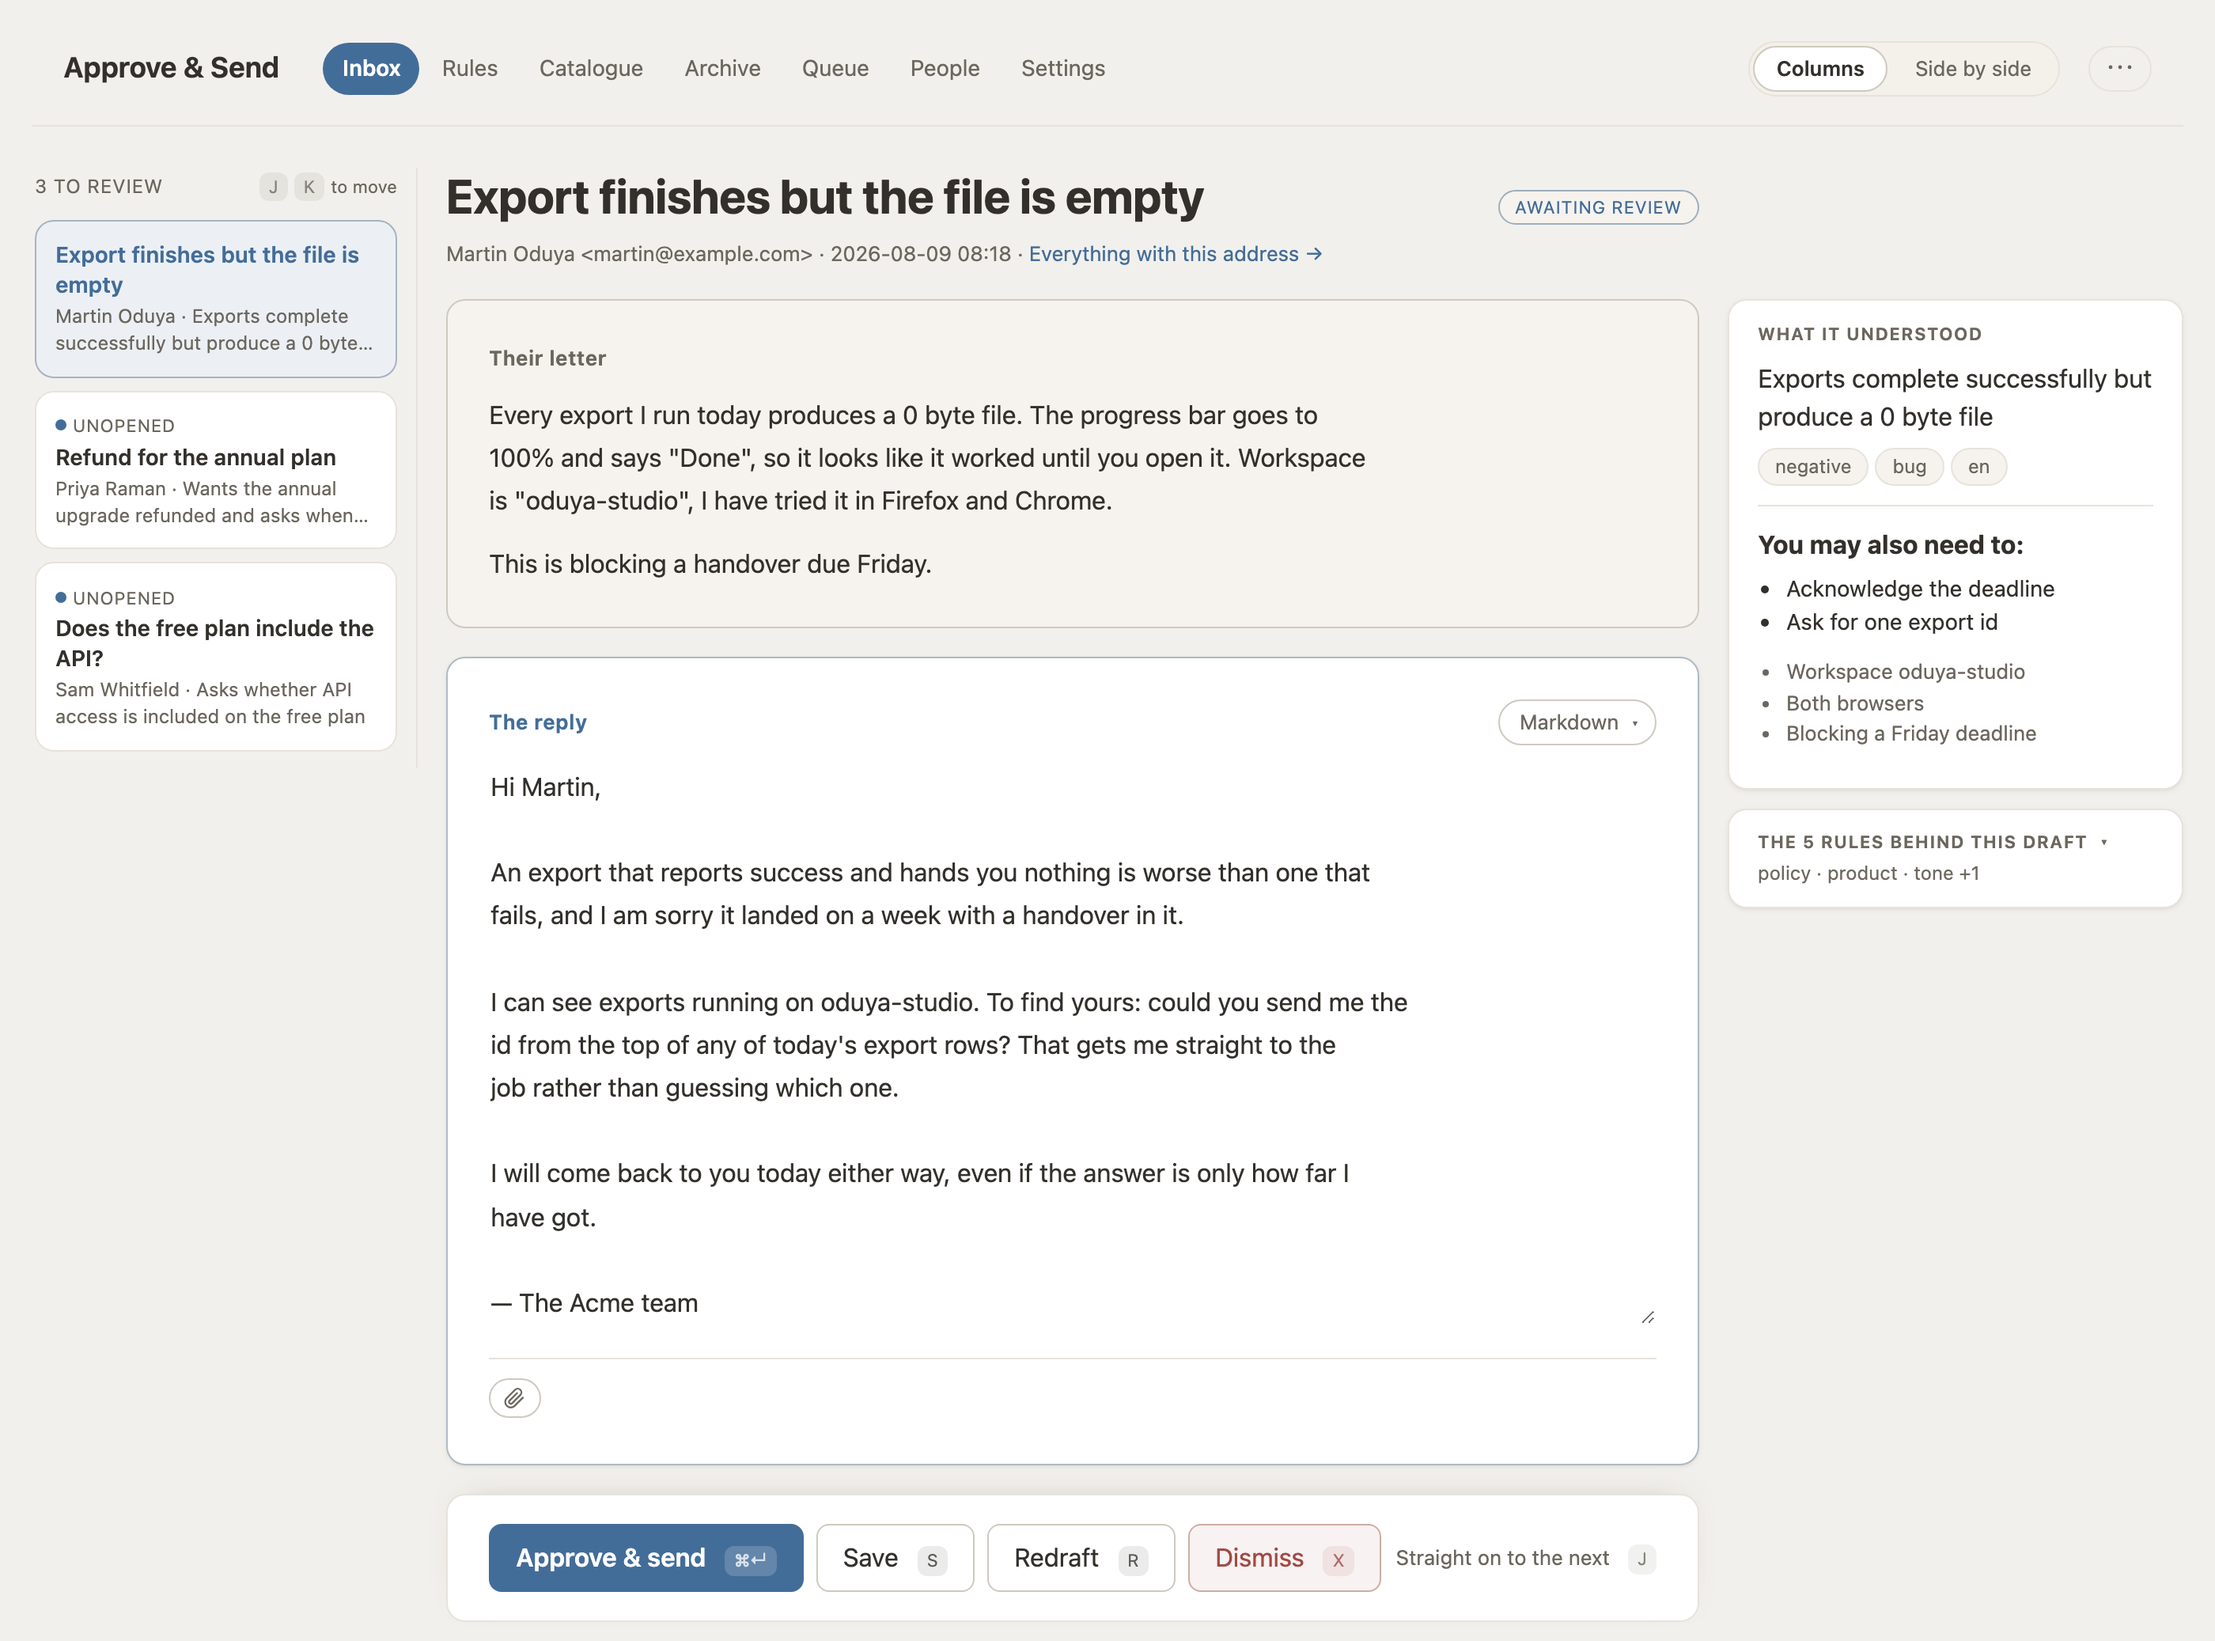
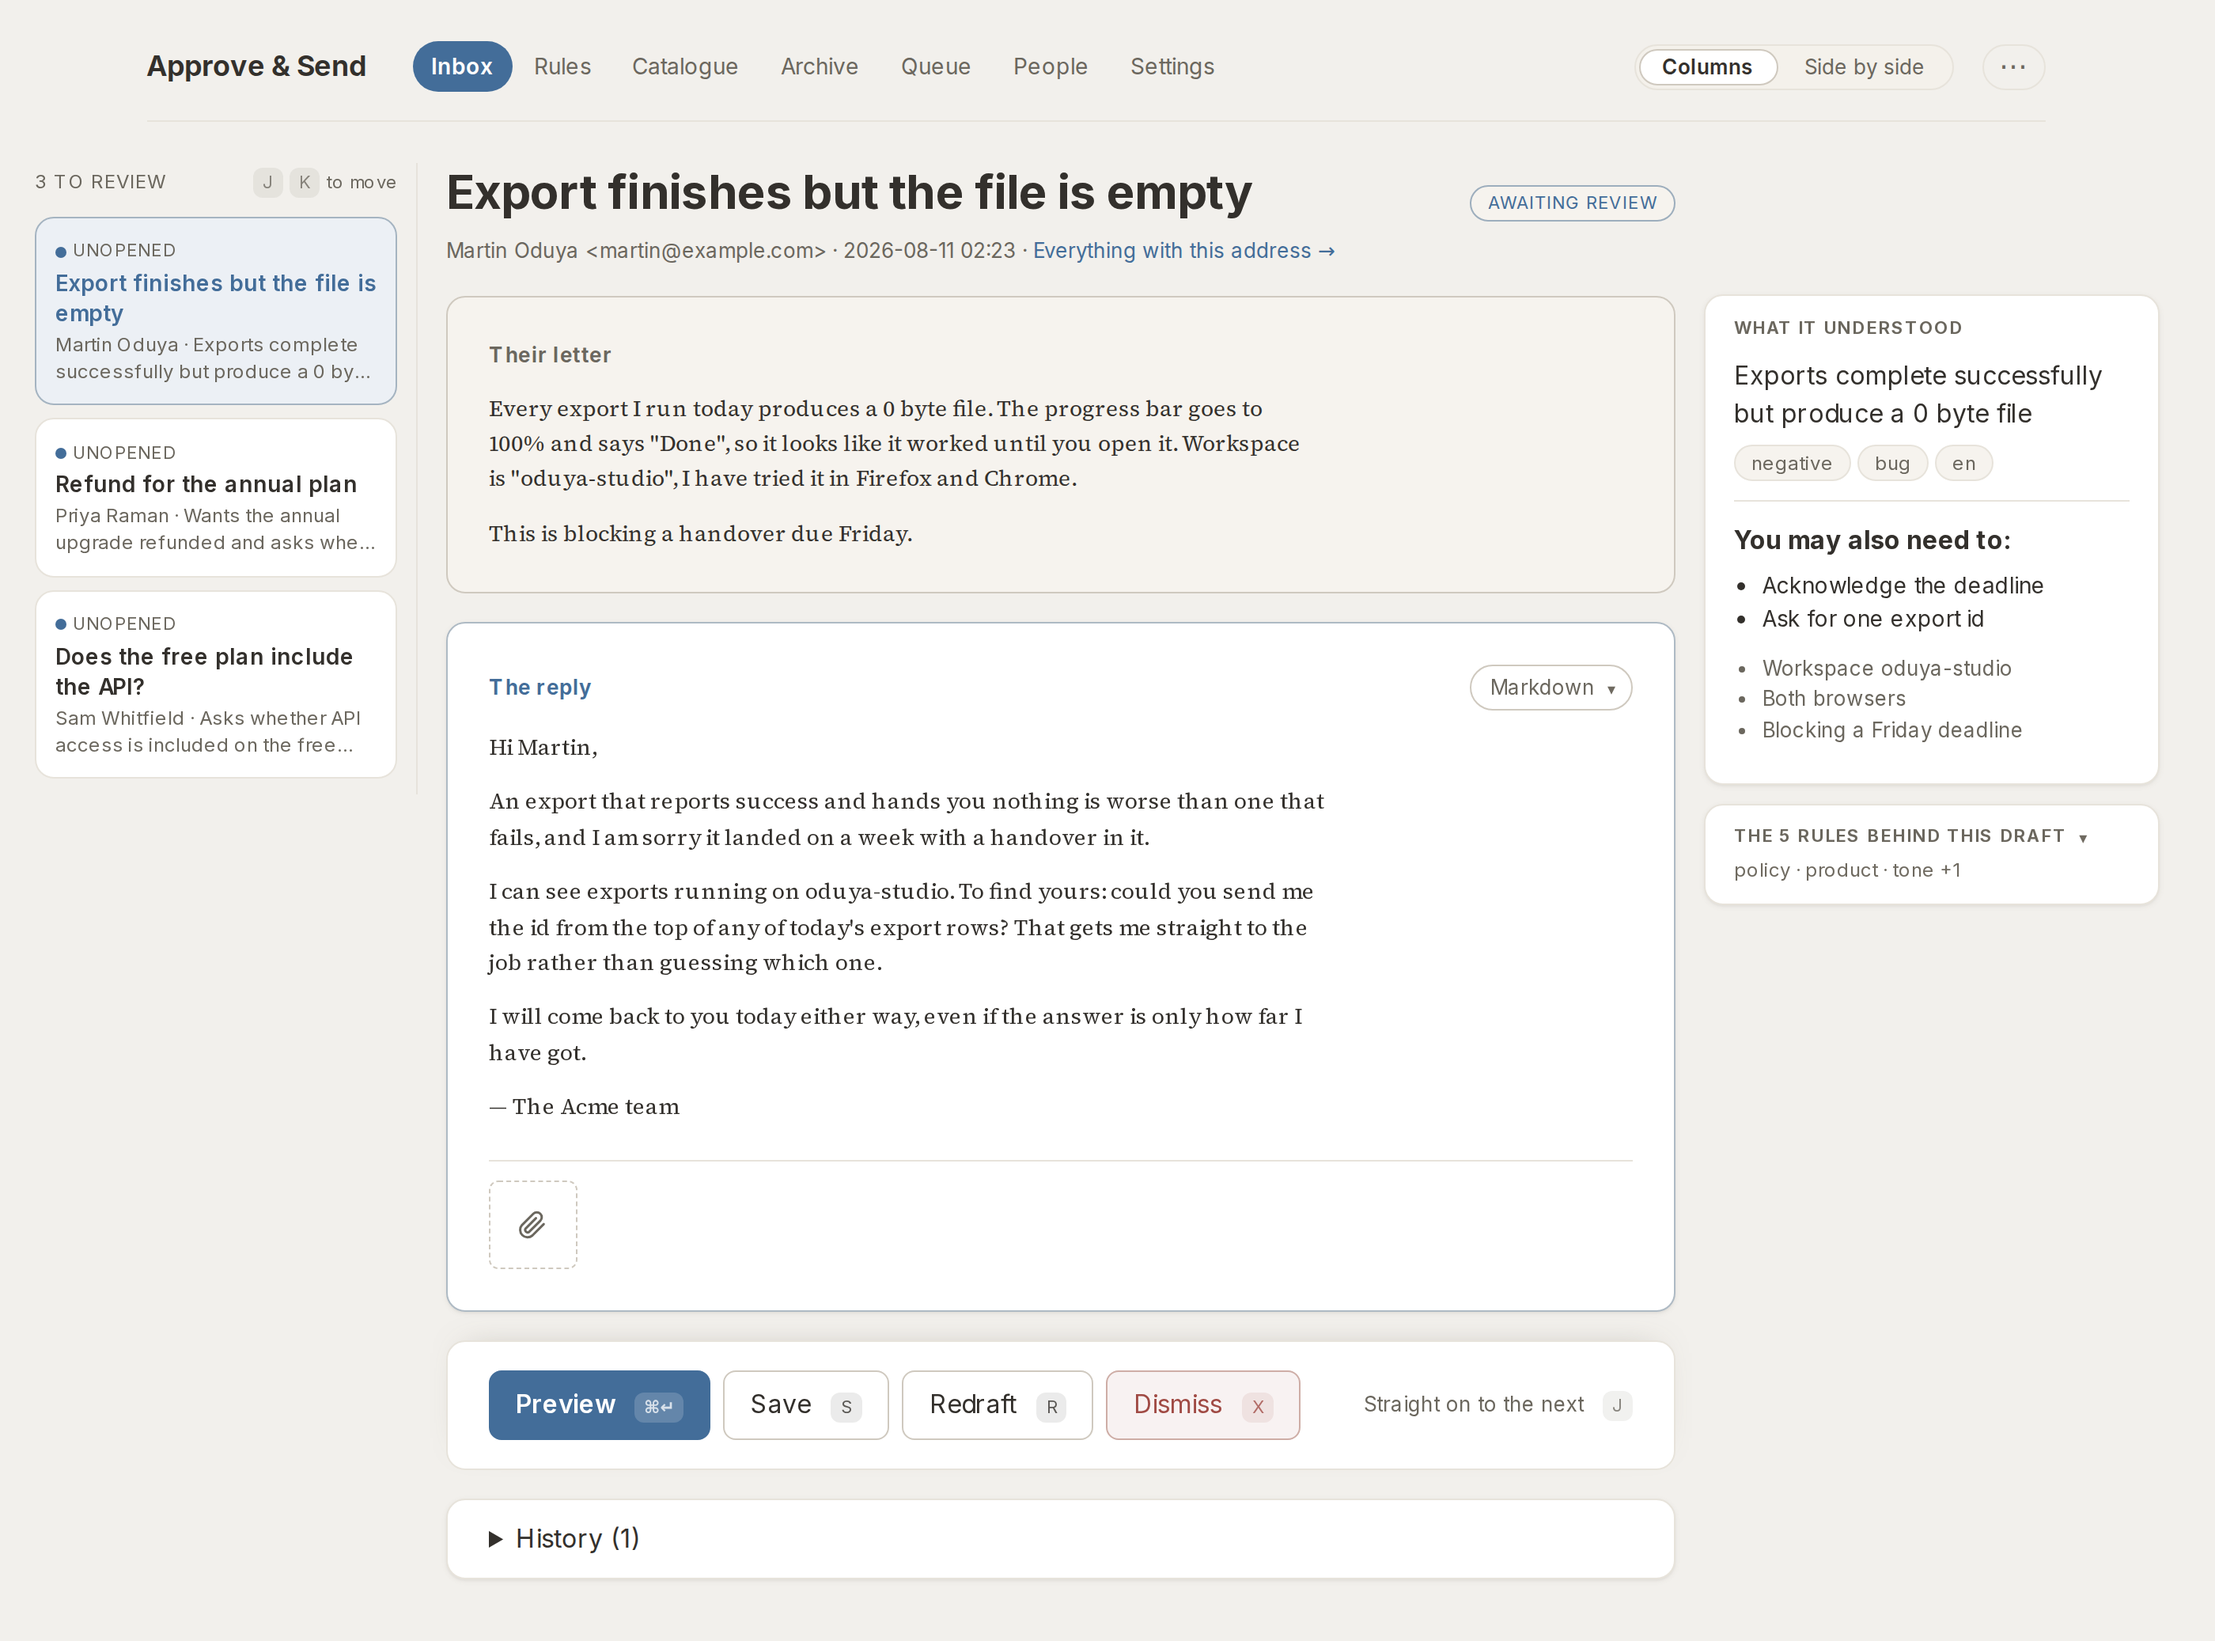
docs: a screenshot of the desk as it is now, and a status that says so
The hero shot was taken before the letter frame, the preview step and the
rendered draft box existed, so the first thing a stranger saw was a screen
this app no longer has. Retaken from the demo seed on the example config —
fictional mail, no customer of ours in it.

The demo drafts were hard-wrapped at 80 columns, which the renderer keeps as
line breaks, so the sample reply broke mid-sentence in the middle of the
picture. Reflowed to one line per paragraph; the wrapping is the box's job.

And the status block still said this had been used by nobody but its author
on a desk that had never run it. It has now run one desk since 2026-08-07 —
961 read, 50 filed as junk unasked, 514 rules learned, every reply that went
out read by a person. Still one desk and one author.

diff --git a/src/lib/demo/seed.ts b/src/lib/demo/seed.ts
@@ -67,12 +67,9 @@ Priya`,
       }),
       draft: `Hi Priya,
 
-Thanks for being straightforward about it — an upgrade you have not used is an
-easy one. I have started the refund for the annual plan.
+Thanks for being straightforward about it — an upgrade you have not used is an easy one. I have started the refund for the annual plan.
 
-Refunds are processed within 5-10 business days, though the exact timing is
-your bank's rather than ours. You will get a confirmation email as soon as it
-leaves our side.
+Refunds are processed within 5-10 business days, though the exact timing is your bank's rather than ours. You will get a confirmation email as soon as it leaves our side.
 
 — The Acme team`,
     },
@@ -102,15 +99,11 @@ This is blocking a handover due Friday.`,
       }),
       draft: `Hi Martin,
 
-An export that reports success and hands you nothing is worse than one that
-fails, and I am sorry it landed on a week with a handover in it.
+An export that reports success and hands you nothing is worse than one that fails, and I am sorry it landed on a week with a handover in it.
 
-I can see exports running on oduya-studio. To find yours: could you send me the
-id from the top of any of today's export rows? That gets me straight to the
-job rather than guessing which one.
+I can see exports running on oduya-studio. To find yours: could you send me the id from the top of any of today's export rows? That gets me straight to the job rather than guessing which one.
 
-I will come back to you today either way, even if the answer is only how far I
-have got.
+I will come back to you today either way, even if the answer is only how far I have got.
 
 — The Acme team`,
     },
@@ -135,11 +128,9 @@ the free plan, or do we need to be on a paid one to try it?`,
       }),
       draft: `Hi Sam,
 
-It is not — API access starts on the paid plans. The free plan is the full app
-otherwise, so it is a fair way to judge everything except the integration side.
+It is not — API access starts on the paid plans. The free plan is the full app otherwise, so it is a fair way to judge everything except the integration side.
 
-If you want to test the API before committing, reply here and I will turn it on
-for your workspace for a couple of weeks.
+If you want to test the API before committing, reply here and I will turn it on for your workspace for a couple of weeks.
 
 — The Acme team`,
     },
@@ -183,24 +174,18 @@ will look again.`,
       // exactly what the rule below was learned from.
       draft: `Hi Tom,
 
-I am really sorry to see you go! Shared folders are absolutely on our roadmap
-and should be landing in the next quarter — I would love for you to stay and
-see them. In the meantime, would you consider a discount on the next three
-months while you wait?
+I am really sorry to see you go! Shared folders are absolutely on our roadmap and should be landing in the next quarter — I would love for you to stay and see them. In the meantime, would you consider a discount on the next three months while you wait?
 
 If you do decide to leave, we would really appreciate a review.
 
 — The Acme team`,
       finalReply: `Hi Tom,
 
-That is a fair reason to leave, and six months is a long time to wait for
-something you were counting on.
+That is a fair reason to leave, and six months is a long time to wait for something you were counting on.
 
-Shared folders are being worked on. I am not going to give you a date, because
-the last one we gave was wrong. When they ship I will email you personally.
+Shared folders are being worked on. I am not going to give you a date, because the last one we gave was wrong. When they ship I will email you personally.
 
-Your access runs to the end of the month and your data stays exportable
-throughout.
+Your access runs to the end of the month and your data stays exportable throughout.
 
 — The Acme team`,
       reviewerNotes: 'No date, no discount pitch, no review ask from someone who just left.',

diff --git a/README.zh-CN.md b/README.zh-CN.md
@@ -42,9 +42,9 @@
 付费版，也没有藏着不给你的托管版本。唯一要花钱的是 AI 模型——而如果你已经在付
 ChatGPT 或 Claude 的订阅，或者你在自己的机器上跑模型，那这笔也已经省了。
 
-> **状态：v0.1。** 整条链路是完整的，但还没有跑在任何一个生产环境里。它脱胎于一个
-> 私人工具，那个工具处理过 929 封邮件、学到 213 条规则；而这份重写版，除了作者本人
-> 没有人用过。
+> **状态：v0.1。** 它正在跑一个真实的客服台——作者自己的。自 2026-08-07 起，它读过
+> 961 封邮件，其中 50 封没问过任何人就归成了垃圾，学到 514 条规则，而它发出去的每一封
+> 回复都先由人读过。一个客服台、一位作者，仍然是诚实的数字；你会是第二个。
 
 ## 怎么把它跑起来
 

diff --git a/README.md b/README.md
@@ -49,9 +49,10 @@ The only thing that costs money is the AI model — and if you already pay for a
 ChatGPT or Claude subscription, or you run a model on your own hardware, that is
 already covered too.
 
-> **Status: v0.1.** Complete end to end and running in production nowhere. The
-> private tool it grew out of has handled 929 emails and learned 213 rules; this
-> rewrite has been used by nobody but its author.
+> **Status: v0.1.** It runs one real support desk — the author's — where since
+> 2026-08-07 it has read 961 emails, filed 50 of them as junk without asking,
+> learned 514 rules, and had every reply it sent read by a person first. One
+> desk and one author is still the honest number; you would be the second.
 
 ## Getting it running
 
